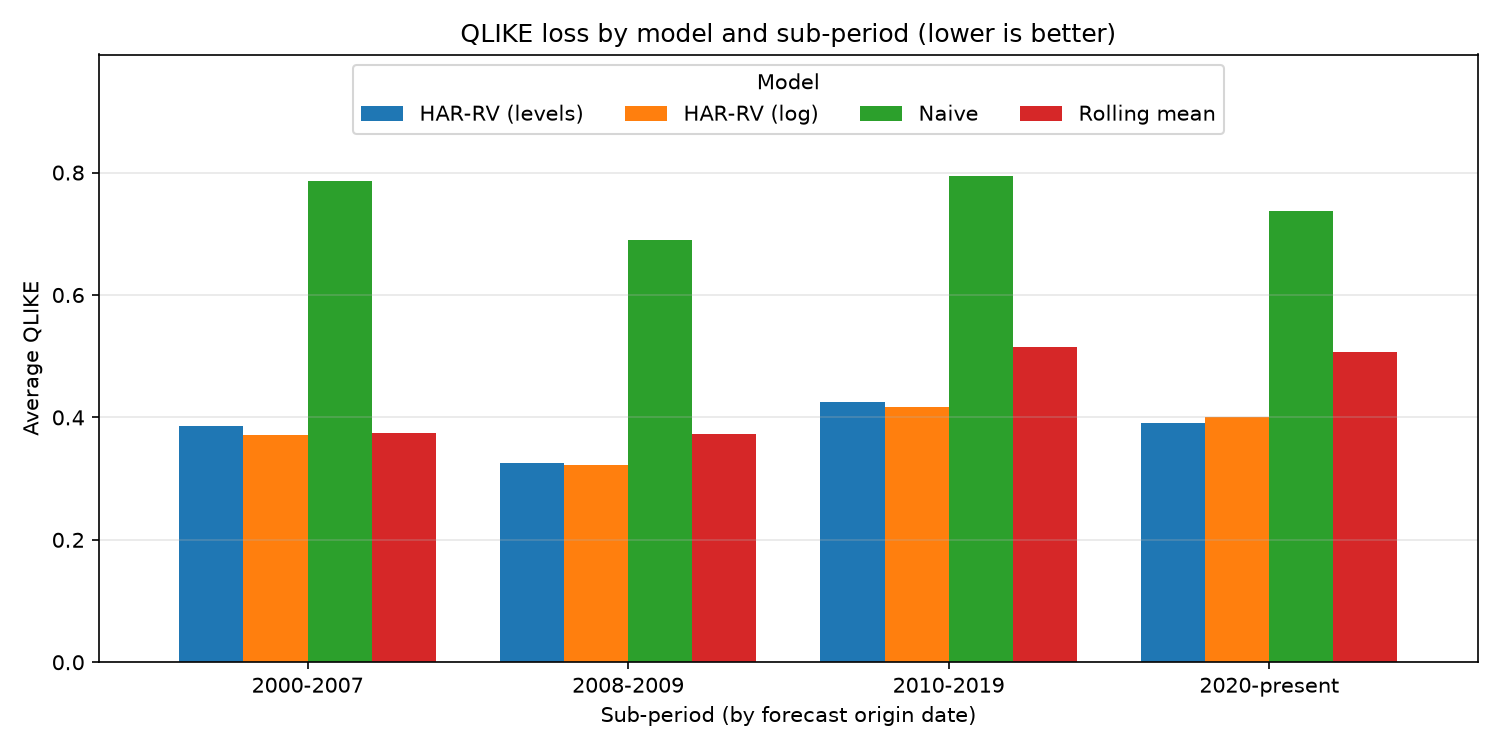
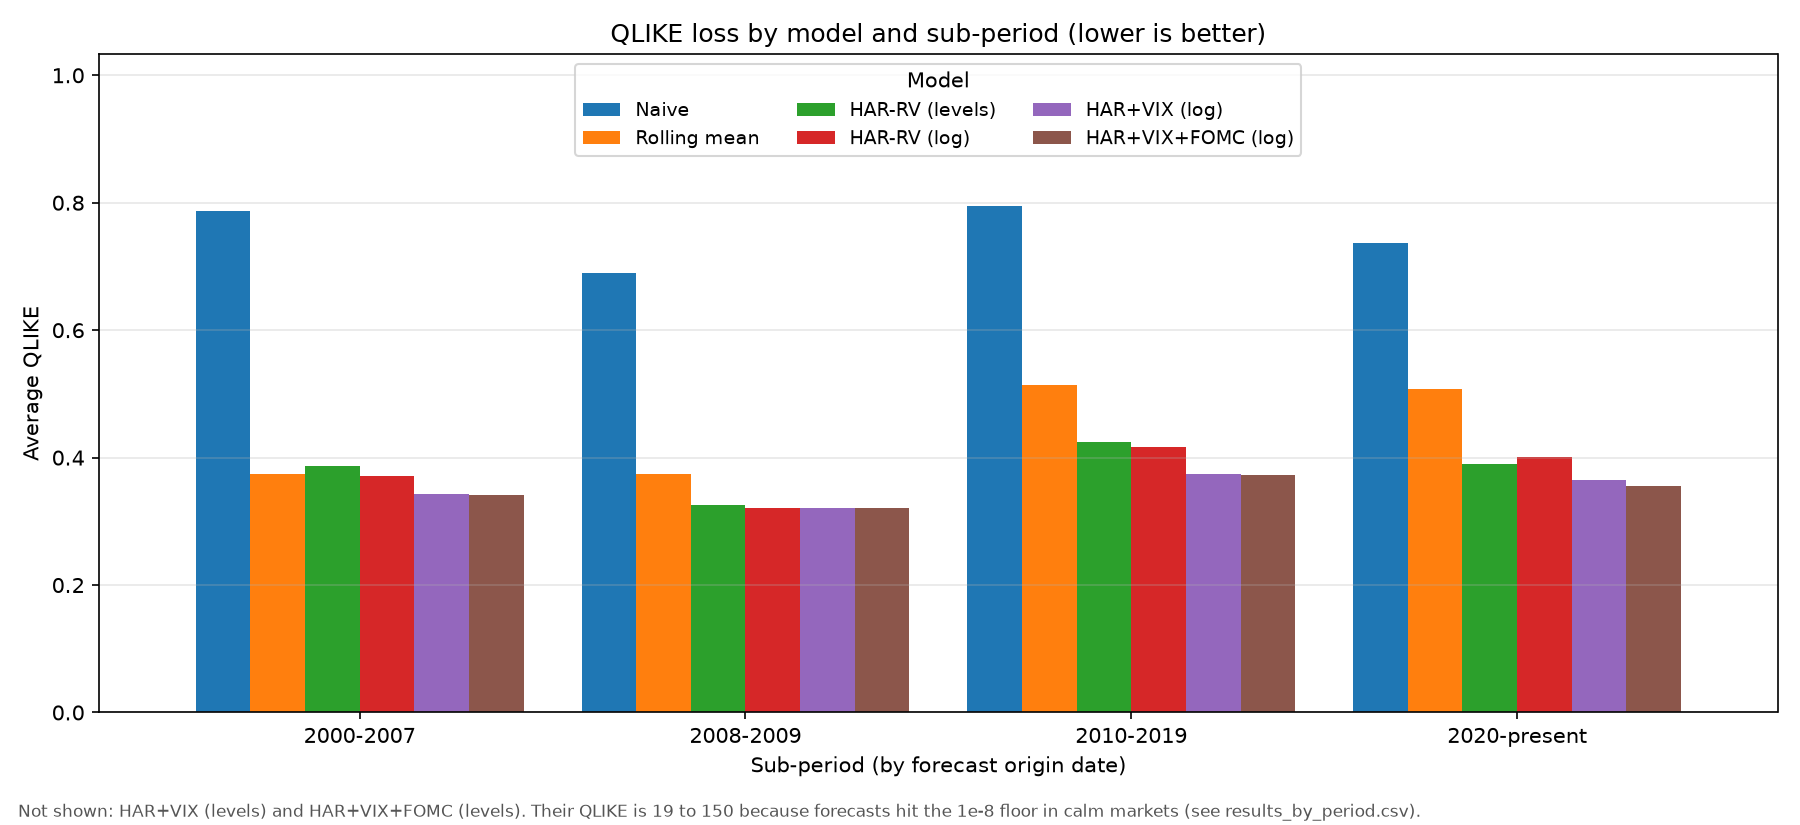
Phase 2: HAR+VIX and HAR+VIX+FOMC models, generalized walk-forward, DM pairs, coefficient table

diff --git a/src/run_phase1.py b/src/run_phase1.py
@@ -1,8 +1,11 @@
-"""Run all of Phase 1 end to end:  python -m src.run_phase1  [--refresh]
+"""Run the whole project end to end:  python -m src.run_phase1  [--refresh]
+
+(The file keeps its Phase 1 name because the scheduled Sheet refresh calls it;
+it now also runs the Phase 2 models that add VIX and the FOMC-tomorrow flag.)
 
 Writes to outputs/:
-    results_overall.csv, results_by_period.csv, dm_tests.csv,
-    forecast_vs_actual.png, qlike_by_period.png
+    results_overall.csv, results_by_period.csv, dm_tests.csv, coefficients_full_sample.csv,
+    forecast_vs_actual.png, qlike_by_period.png, sheet_payload.json
 """
 
 import argparse
@@ -12,27 +15,43 @@ matplotlib.use("Agg")  # draw to files only; no window needed
 import matplotlib.pyplot as plt
 import pandas as pd
 
-from src.data import ROOT, load_data
-from src.evaluate import (MIN_TRAIN, REFIT_EVERY, dm_table, score_by_period,
+from src.data import ROOT, load_data, load_vix
+from src.evaluate import (MIN_TRAIN, REFIT_EVERY, dm_pairs, score_by_period,
                           score_overall, walk_forward)
 from src.features import annualized_vol_pct, build_features
-from src.models import make_models
+from src.models import HARLevelsModel, make_models
 from src.sheet_export import build_payload, write_sheet_payload
 
 OUT_DIR = ROOT / "outputs"
+FOMC_PATH = ROOT / "data" / "events" / "fomc_decision_dates.csv"
+
+# Significance tests: (model A, model B). A negative DM statistic means A is better.
+DM_PAIRS = [
+    # Phase 1: HAR against the two baselines
+    ("HAR-RV (levels)", "Naive"), ("HAR-RV (levels)", "Rolling mean"),
+    ("HAR-RV (log)", "Naive"), ("HAR-RV (log)", "Rolling mean"),
+    # Phase 2: does each added input help? (HAR -> +VIX -> +FOMC)
+    ("HAR+VIX (levels)", "HAR-RV (levels)"), ("HAR+VIX (log)", "HAR-RV (log)"),
+    ("HAR+VIX+FOMC (levels)", "HAR+VIX (levels)"), ("HAR+VIX+FOMC (log)", "HAR+VIX (log)"),
+]
+# These two have QLIKE scores of 19 to 150 (not 0.3 to 0.5), caused by forecasts hitting
+# the 1e-8 floor in calm markets. They are left out of the bar chart so the other bars stay readable.
+CHART_EXCLUDED = ["HAR+VIX (levels)", "HAR+VIX+FOMC (levels)"]
 
 
 def plot_forecast_vs_actual(fc: pd.DataFrame, path) -> None:
-    """Annualized volatility: actual vs HAR-RV (levels) forecast, last 2 years."""
+    """Annualized volatility: actual vs log-HAR forecasts with and without VIX, last 2 years."""
     recent = fc[fc.index >= fc.index.max() - pd.DateOffset(years=2)]
     # Index = origin date t; both the forecast and the actual are for day t+1,
-    # so the two lines are aligned with each other (x-axis shows the origin date).
+    # so the lines are aligned with each other (x-axis shows the origin date).
     fig, ax = plt.subplots(figsize=(11, 5))
-    ax.plot(recent.index, annualized_vol_pct(recent["actual"]), color="#9aa5b1",
+    ax.plot(recent.index, annualized_vol_pct(recent["actual"]), color="#c3cad2",
             lw=1, label="Actual (Parkinson proxy)")
-    ax.plot(recent.index, annualized_vol_pct(recent["HAR-RV (levels)"]), color="#1f5fbf",
-            lw=1.8, label="HAR-RV (levels) forecast")
-    ax.set_title("S&P 500 next-day volatility: actual vs HAR-RV forecast (last 2 years)")
+    ax.plot(recent.index, annualized_vol_pct(recent["HAR-RV (log)"]), color="#1f5fbf",
+            lw=1.6, label="HAR-RV (log) forecast")
+    ax.plot(recent.index, annualized_vol_pct(recent["HAR+VIX (log)"]), color="#d9730d",
+            lw=1.6, label="HAR+VIX (log) forecast")
+    ax.set_title("S&P 500 next-day volatility: actual vs HAR forecasts, without and with VIX (last 2 years)")
     ax.set_xlabel("Forecast origin date (forecast is for the following trading day)")
     ax.set_ylabel("Annualized volatility (%)")
     ax.legend()
@@ -46,49 +65,72 @@ def plot_qlike_by_period(by_period: pd.DataFrame, path) -> None:
     """Grouped bar chart: QLIKE per model per sub-period (lower is better)."""
     table = by_period.pivot(index="period", columns="model", values="QLIKE")
     table = table.loc[by_period["period"].unique()]  # keep chronological order
-    ax = table.plot(kind="bar", figsize=(10, 5), width=0.8, rot=0)
+    order = [m for m in by_period["model"].unique() if m not in CHART_EXCLUDED]
+    table = table[order]
+    ax = table.plot(kind="bar", figsize=(12, 5.5), width=0.85, rot=0)
     ax.set_title("QLIKE loss by model and sub-period (lower is better)")
     ax.set_xlabel("Sub-period (by forecast origin date)")
     ax.set_ylabel("Average QLIKE")
-    ax.set_ylim(0, table.to_numpy().max() * 1.25)  # headroom so the legend never covers a bar
-    ax.legend(title="Model", loc="upper center", ncol=len(table.columns))
+    ax.set_ylim(0, table.to_numpy().max() * 1.3)  # headroom so the legend never covers a bar
+    ax.legend(title="Model", loc="upper center", ncol=3, fontsize=9)
     ax.grid(axis="y", alpha=0.3)
-    ax.figure.tight_layout()
+    ax.figure.text(0.01, 0.01, "Not shown: HAR+VIX (levels) and HAR+VIX+FOMC (levels). Their QLIKE is 19 to 150 "
+                   "because forecasts hit the 1e-8 floor in calm markets (see results_by_period.csv).",
+                   fontsize=8, color="#555555")
+    ax.figure.tight_layout(rect=(0, 0.03, 1, 1))
     ax.figure.savefig(path, dpi=150)
     plt.close(ax.figure)
+
+
+def coefficient_table(features: pd.DataFrame) -> pd.DataFrame:
+    """Fit each HAR model once on the FULL sample and list its coefficients.
+
+    This is for interpretation only (what weight does each input get?). It is
+    in-sample, so it is NOT used for any forecast score.
+    """
+    rows = []
+    for m in make_models(extended=True)[2:]:
+        m.fit(features)
+        for term, value in zip(["const"] + m.features, m.params):
+            rows.append({"model": m.name, "term": term, "coefficient": float(value)})
+    return pd.DataFrame(rows)
 
 
 def main(refresh: bool = False) -> None:
     OUT_DIR.mkdir(exist_ok=True)
 
     df = load_data(refresh=refresh)
-    features = build_features(df)
+    vix = load_vix(refresh=refresh)
+    fomc_dates = pd.read_csv(FOMC_PATH, parse_dates=["date"])["date"]
+    features = build_features(df, vix, fomc_dates)
     print(f"\nFeature rows: {len(features)}  |  min training window: {MIN_TRAIN} days  "
           f"|  refit every {REFIT_EVERY} days")
 
-    models = make_models()
+    models = make_models(extended=True)
     fc = walk_forward(features, models)
     print(f"Out-of-sample forecasts: {len(fc)} "
           f"({fc.index.min().date()} to {fc.index.max().date()})")
 
-    har_levels = models[2]
-    print(f"HAR-RV (levels) forecasts floored at 1e-8: {har_levels.n_floored} of "
-          f"{har_levels.n_predictions} ({100 * har_levels.n_floored / har_levels.n_predictions:.2f}%)")
+    for m in models:
+        if isinstance(m, HARLevelsModel):
+            print(f"{m.name} forecasts floored at 1e-8: {m.n_floored} of {m.n_predictions} "
+                  f"({100 * m.n_floored / m.n_predictions:.2f}%)")
 
     overall = score_overall(fc)
     by_period = score_by_period(fc)
-    dm = dm_table(fc)
+    dm = dm_pairs(fc, DM_PAIRS)
 
     overall.to_csv(OUT_DIR / "results_overall.csv")
     by_period.to_csv(OUT_DIR / "results_by_period.csv", index=False)
     dm.to_csv(OUT_DIR / "dm_tests.csv", index=False)
+    coefficient_table(features).to_csv(OUT_DIR / "coefficients_full_sample.csv", index=False)
     plot_forecast_vs_actual(fc, OUT_DIR / "forecast_vs_actual.png")
     plot_qlike_by_period(by_period, OUT_DIR / "qlike_by_period.png")
     # Rows laid out for the Google Sheet (used by the scheduled refresh task).
     write_sheet_payload(build_payload(fc, overall, by_period, dm, df.index),
                         OUT_DIR / "sheet_payload.json")
 
-    pd.set_option("display.width", 120)
+    pd.set_option("display.width", 160)
     fmt = {"MSE": "{:.3e}".format, "QLIKE": "{:.4f}".format}
     print("\n=== Overall out-of-sample scores (lower is better) ===")
     print(overall.to_string(formatters=fmt))
@@ -101,6 +143,6 @@ def main(refresh: bool = False) -> None:
 
 
 if __name__ == "__main__":
-    parser = argparse.ArgumentParser(description="Run Phase 1 end to end.")
+    parser = argparse.ArgumentParser(description="Run the full pipeline (Phase 1 and Phase 2 models).")
     parser.add_argument("--refresh", action="store_true", help="re-download data")
     main(refresh=parser.parse_args().refresh)

diff --git a/src/models.py b/src/models.py
@@ -1,9 +1,11 @@
 """One-step-ahead variance forecasters.
 
 Every model has the same two methods:
-    fit(train_df)      learn from a DataFrame with columns rv_d, rv_w, rv_m, target
+    fit(train_df)      learn from a DataFrame holding the feature columns plus target
     predict(test_row)  forecast next-day variance from ONE row (a pandas Series)
-                       holding rv_d, rv_w, rv_m for the current day
+                       holding the feature columns for the current day
+Each model only reads the columns it was built to use (rv_d/rv_w/rv_m, and
+optionally vix_var and fomc_next), so extra columns in the row are ignored.
 
 The two baselines have nothing to learn, so their fit() does nothing.
 """
@@ -13,6 +15,9 @@ import pandas as pd
 import statsmodels.api as sm
 
 FEATURES = ["rv_d", "rv_w", "rv_m"]
+VIX_FEATURES = FEATURES + ["vix_var"]
+FULL_FEATURES = VIX_FEATURES + ["fomc_next"]
+LOG_COLUMNS = {"rv_d", "rv_w", "rv_m", "vix_var"}  # variance-type columns that get logged
 VARIANCE_FLOOR = 1e-8  # variance can't be negative (or zero), so floor forecasts here
 
 
@@ -49,21 +54,21 @@ class HARLevelsModel:
     script reports the share. (Negative forecasts only happen if the fitted
     intercept is negative AND all recent variances are tiny.)
     """
-    name = "HAR-RV (levels)"
-
-    def __init__(self):
-        self.params = None
+    def __init__(self, features=FEATURES, name="HAR-RV (levels)"):
+        self.features = list(features)  # which columns this model is allowed to use
+        self.name = name
+        self.params = None  # [const, one coefficient per feature, in `features` order]
         self.n_predictions = 0
         self.n_floored = 0
 
     def fit(self, train_df: pd.DataFrame) -> "HARLevelsModel":
-        X = sm.add_constant(train_df[FEATURES], has_constant="add")
+        X = sm.add_constant(train_df[self.features], has_constant="add")
         result = sm.OLS(train_df["target"], X).fit()
-        self.params = result.params.to_numpy()  # [const, rv_d, rv_w, rv_m]
+        self.params = result.params.to_numpy()
         return self
 
     def predict(self, test_row: pd.Series) -> float:
-        x = np.array([1.0, test_row["rv_d"], test_row["rv_w"], test_row["rv_m"]])
+        x = np.r_[1.0, [test_row[c] for c in self.features]]
         raw = float(x @ self.params)
         self.n_predictions += 1
         if raw < VARIANCE_FLOOR:
@@ -82,14 +87,23 @@ class HARLogModel:
     multiply back by that factor, i.e. forecast = exp(prediction + 0.5 * s^2),
     where s^2 is the residual variance of the log regression.
     """
-    name = "HAR-RV (log)"
-
-    def __init__(self):
+    def __init__(self, features=FEATURES, name="HAR-RV (log)"):
+        self.features = list(features)
+        self.name = name
         self.params = None
         self.resid_var = 0.0
 
+    def _transform(self, values: dict) -> np.ndarray:
+        """Log the variance-type columns; leave 0/1 flags (like fomc_next) as they are."""
+        return np.array([np.log(values[c]) if c in LOG_COLUMNS else values[c]
+                         for c in self.features])
+
     def fit(self, train_df: pd.DataFrame) -> "HARLogModel":
-        X = sm.add_constant(np.log(train_df[FEATURES]), has_constant="add")
+        X = train_df[self.features].copy()
+        for c in self.features:
+            if c in LOG_COLUMNS:
+                X[c] = np.log(X[c])
+        X = sm.add_constant(X, has_constant="add")
         y = np.log(train_df["target"])
         result = sm.OLS(y, X).fit()
         self.params = result.params.to_numpy()
@@ -97,14 +111,23 @@ class HARLogModel:
         return self
 
     def predict(self, test_row: pd.Series) -> float:
-        x = np.array([1.0,
-                      np.log(test_row["rv_d"]),
-                      np.log(test_row["rv_w"]),
-                      np.log(test_row["rv_m"])])
+        x = np.r_[1.0, self._transform(test_row)]
         log_pred = float(x @ self.params)
         return float(np.exp(log_pred + 0.5 * self.resid_var))
 
 
-def make_models() -> list:
-    """Fresh, unfitted instances of all four models."""
-    return [NaiveModel(), RollingMeanModel(), HARLevelsModel(), HARLogModel()]
+def make_models(extended: bool = False) -> list:
+    """Fresh, unfitted models.
+
+    extended=False: the four Phase 1 models (Naive, Rolling mean, HAR-RV levels/log).
+    extended=True : adds HAR+VIX and HAR+VIX+FOMC, each in levels and log form,
+                    so the effect of each added input can be isolated:
+                    HAR-RV -> +VIX -> +FOMC.
+    """
+    models = [NaiveModel(), RollingMeanModel(), HARLevelsModel(), HARLogModel()]
+    if extended:
+        models += [HARLevelsModel(VIX_FEATURES, "HAR+VIX (levels)"),
+                   HARLogModel(VIX_FEATURES, "HAR+VIX (log)"),
+                   HARLevelsModel(FULL_FEATURES, "HAR+VIX+FOMC (levels)"),
+                   HARLogModel(FULL_FEATURES, "HAR+VIX+FOMC (log)")]
+    return models

diff --git a/src/evaluate.py b/src/evaluate.py
@@ -4,7 +4,6 @@ import numpy as np
 import pandas as pd
 import statsmodels.api as sm
 
-from src.features import FEATURE_COLUMNS
 from src.models import make_models
 
 MIN_TRAIN = 1000    # trading days of history required before the first forecast
@@ -44,7 +43,9 @@ def walk_forward(features: pd.DataFrame, models=None,
     if models is None:
         models = make_models()
 
-    X = features[FEATURE_COLUMNS]  # models only ever see these three columns
+    # Models see every FEATURE column (HAR terms, and VIX / FOMC flag if present)
+    # but never the `target` column, which is tomorrow's variance.
+    X = features.drop(columns="target")
     n = len(features)
     dates, actuals = [], []
     forecasts = {m.name: [] for m in models}
@@ -167,13 +168,17 @@ def diebold_mariano(actual, forecast_a, forecast_b, lags: int | None = None) -> 
             "p_value": p_value, "lags": lags, "n": T}
 
 
+def dm_pairs(forecast_df: pd.DataFrame, pairs) -> pd.DataFrame:
+    """DM tests on QLIKE for a list of (model A, model B) pairs."""
+    rows = []
+    for a, b in pairs:
+        r = diebold_mariano(forecast_df["actual"], forecast_df[a], forecast_df[b])
+        rows.append({"model_A": a, "model_B": b, **r})
+    return pd.DataFrame(rows)
+
+
 def dm_table(forecast_df: pd.DataFrame,
              challengers=("HAR-RV (levels)", "HAR-RV (log)"),
              benchmarks=("Naive", "Rolling mean")) -> pd.DataFrame:
     """DM tests of each HAR variant (A) against each baseline (B), on QLIKE."""
-    rows = []
-    for a in challengers:
-        for b in benchmarks:
-            r = diebold_mariano(forecast_df["actual"], forecast_df[a], forecast_df[b])
-            rows.append({"model_A": a, "model_B": b, **r})
-    return pd.DataFrame(rows)
+    return dm_pairs(forecast_df, [(a, b) for a in challengers for b in benchmarks])
